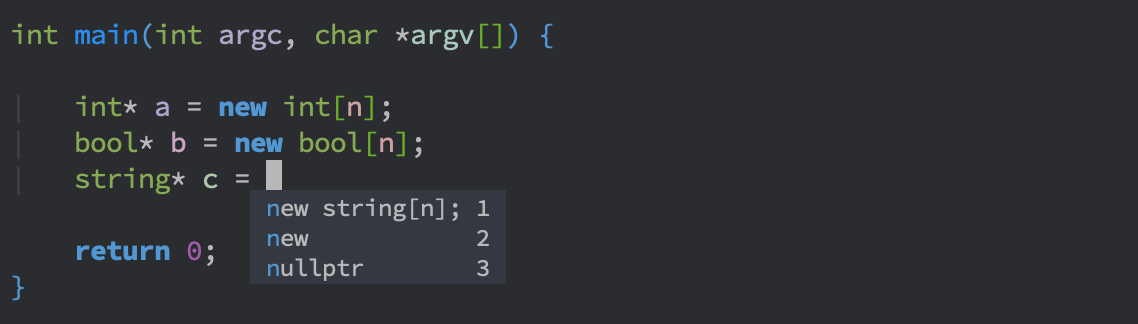
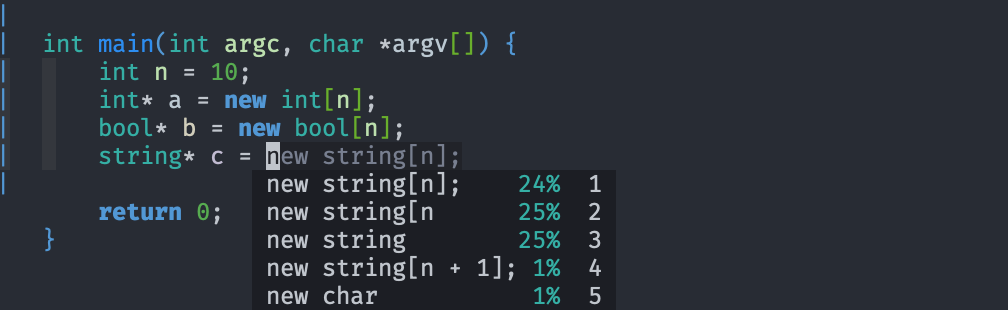
Added deep tabnine screenshot

diff --git a/README.md b/README.md
@@ -8,6 +8,12 @@
 
 ![screenshot](screenshot.png)
 
+With [Deep TabNine](https://tabnine.com/blog/deep):
+
+![screenshot-deep-1](screenshot-deep-1.png)
+![screenshot-deep-2](screenshot-deep-2.png)
+![screenshot-deep-3](screenshot-deep-3.png)
+
 ## Installation
 
 1. Make sure [company-mode](https://github.com/company-mode/company-mode) is installed and configured.
@@ -18,23 +24,23 @@
 
    - With [use-package](https://github.com/jwiegley/use-package)
 
-	 Put the following in your config:
+     Put the following in your config:
 
-	 ```emacs
-	 (use-package company-tabnine :ensure t)
-	 ```
-	 
+     ```emacs
+     (use-package company-tabnine :ensure t)
+     ```
+
    - With `package.el` (built-in)
-   
-	 Install the package:
-	 ```emacs
-	 M-x package-install RET company-tabnine RET
-	 ```
 
-	 Put the following in your config:
-	 ```emacs
-	 (require 'company-tabnine)
-	 ```
+     Install the package:
+     ```emacs
+     M-x package-install RET company-tabnine RET
+     ```
+
+     Put the following in your config:
+     ```emacs
+     (require 'company-tabnine)
+     ```
 
 3. Add `company-tabnine` to `company-backends`
    ```emacs
